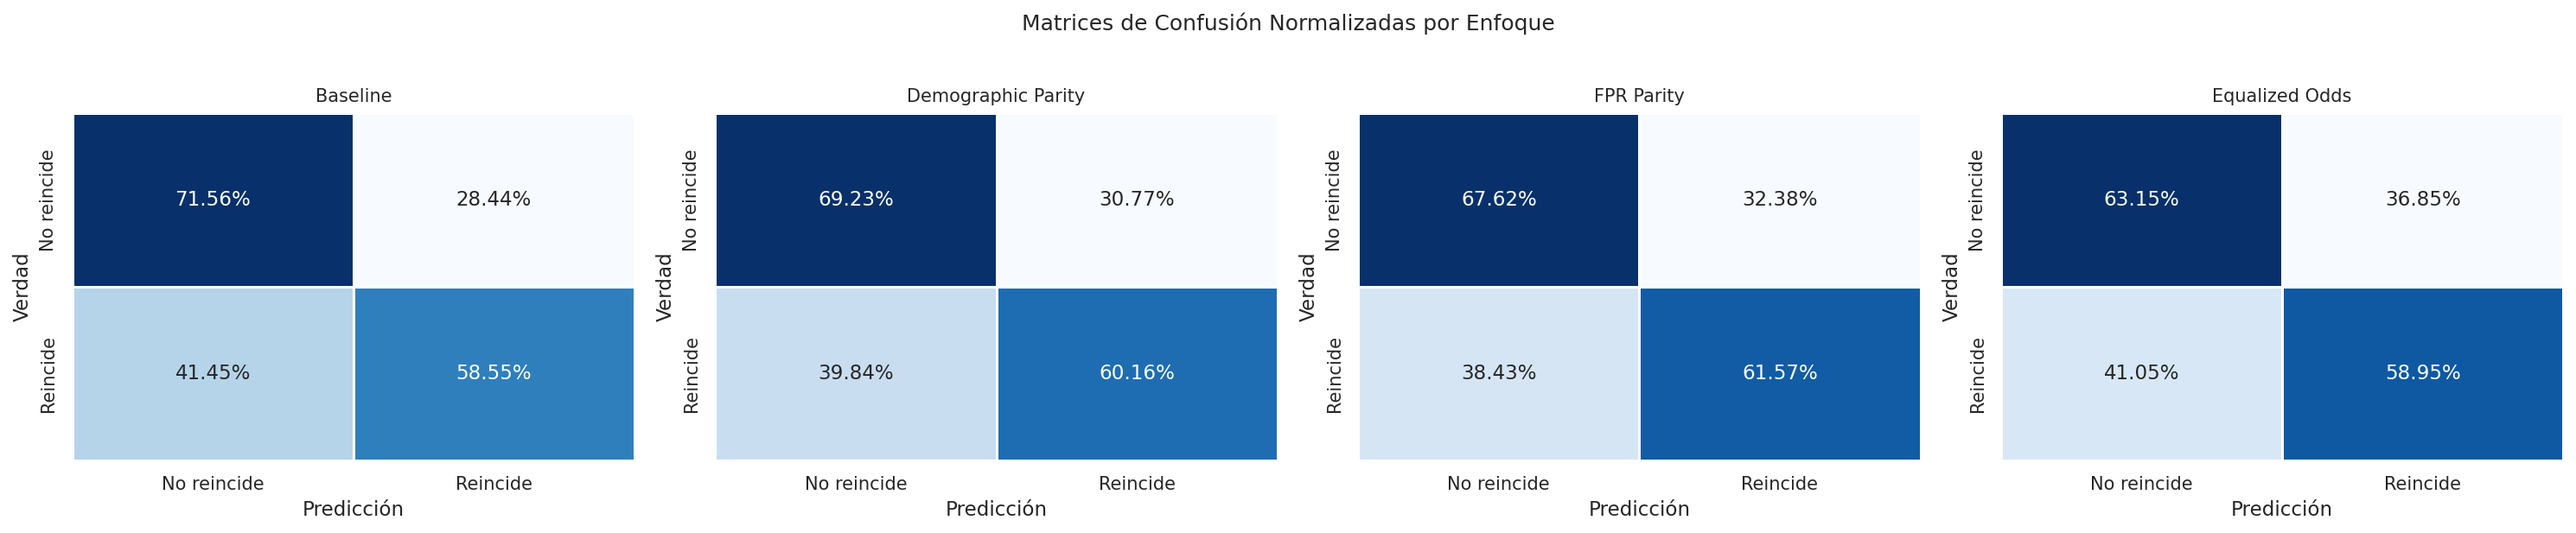
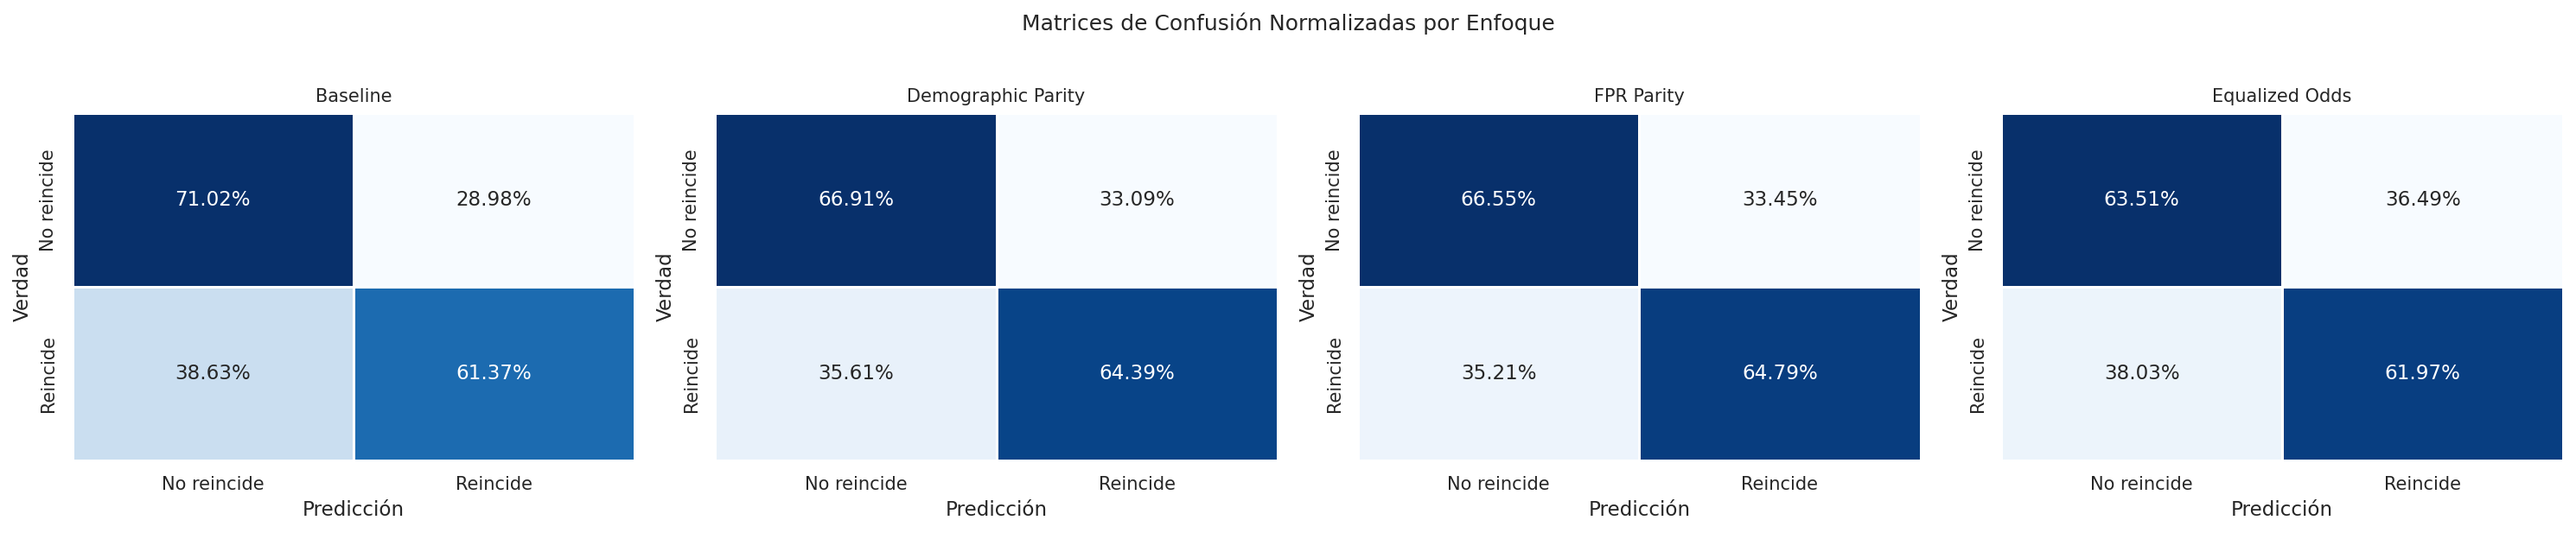
(fix): report & X data

diff --git a/reports/report.tex b/reports/report.tex
@@ -156,7 +156,7 @@ El \textit{dataset} \textit{COMPAS Recidivism — Two-Year} fue recopilado y pub
 \midrule
 Fuente / enlace           & ProPublica (GitHub: \texttt{propublica/compas-analysis}) \\
 Número de instancias      & $\approx 6\,000$ (tras filtrado y selección de razas) \\
-Número de \textit{features} (modelado) & 9 (4 numéricas, 5 categóricas)\\
+Número de \textit{features} (modelado) & 8 (5 numéricas, 3 categóricas)\\
 Variable objetivo         & \texttt{two\_year\_recid} (binaria) \\
 Atributo sensible         & \texttt{race} $\in\{$African-American, Caucasian$\}$ \\
 Distribución de clases    & $\approx 55\,\%$ no reincide $/\;45\,\%$ reincide \\
@@ -172,7 +172,7 @@ El EDA persigue tres objetivos: \emph{(i)}~verificar el desbalanceo de clases, \
 
 \begin{figure}[H]
 \centering
-\includegraphics[width=0.85\textwidth]{group_metrics_heatmap}
+\includegraphics[width=0.85\textwidth]{./figures/group_metrics_heatmap}
 \caption{Métricas por grupo racial (\textit{accuracy}, precisión, \textit{recall}, F1, FPR, FNR) para el modelo \textit{baseline} y las tres intervenciones de equidad evaluadas. La fila del \textit{baseline} evidencia la disparidad de FPR (mayor en African-American) y de FNR (mayor en Caucasian) consistente con el resultado de ProPublica.}
 \label{fig:eda}
 \end{figure}
@@ -197,7 +197,7 @@ A partir del análisis del \textit{dataset} y del contexto de uso del sistema, s
 
 Se aplican los filtros canónicos de ProPublica~\cite{propublica_compas_2016}: se descartan los registros con $|\,$\texttt{days\_b\_screening\_arrest}$\,|>30$, los marcados con \texttt{is\_recid}~$=-1$, los cargos de orden judicial (\texttt{c\_charge\_degree}~$=$~`O') y las puntuaciones inválidas. Posteriormente se restringe el análisis a los acusados de raza afroamericana y caucásica para reproducir el contraste binario del estudio original.
 
-Tras el filtrado se construye el conjunto de \textit{features} de modelado (variables numéricas: \texttt{age}, \texttt{priors\_count}, \texttt{juv\_fel\_count}, \texttt{juv\_misd\_count}, \texttt{juv\_other\_count}; variables categóricas: \texttt{sex}, \texttt{age\_cat}, \texttt{c\_charge\_degree}, \texttt{score\_text}). Se excluye \texttt{c\_charge\_desc} (alta cardinalidad sin agrupación semántica) y \texttt{decile\_score} (es la propia salida del sistema COMPAS, no una \textit{feature} predictiva genuina). La división \emph{estratificada} \textit{train/test} se realiza con \texttt{test\_size}$=0{,}2$ y \texttt{random\_state}$=80$, manteniendo la prevalencia del objetivo en ambos conjuntos. Críticamente, el \texttt{ColumnTransformer} (imputación por mediana + \texttt{StandardScaler} para numéricas; imputación por moda + \texttt{OneHotEncoder} con \texttt{handle\_unknown=`ignore'} para categóricas) se ajusta \emph{exclusivamente} sobre el conjunto de entrenamiento, dentro de un \texttt{sklearn.Pipeline}, para garantizar la ausencia de \textit{data leakage}.
+Tras el filtrado se construye el conjunto de \textit{features} de modelado (variables numéricas: \texttt{age}, \texttt{priors\_count}, \texttt{juv\_fel\_count}, \texttt{juv\_misd\_count}, \texttt{juv\_other\_count}; variables categóricas: \texttt{sex}, \texttt{age\_cat}, \texttt{c\_charge\_degree}). Se excluye \texttt{c\_charge\_desc} (alta cardinalidad sin agrupación semántica) y \texttt{decile\_score} (es la propia salida del sistema COMPAS, no una \textit{feature} predictiva genuina). La división \emph{estratificada} \textit{train/test} se realiza con \texttt{test\_size}$=0{,}2$ y \texttt{random\_state}$=80$, manteniendo la prevalencia del objetivo en ambos conjuntos. Críticamente, el \texttt{ColumnTransformer} (imputación por mediana + \texttt{StandardScaler} para numéricas; imputación por moda + \texttt{OneHotEncoder} con \texttt{handle\_unknown=`ignore'} para categóricas) se ajusta \emph{exclusivamente} sobre el conjunto de entrenamiento, dentro de un \texttt{sklearn.Pipeline}, para garantizar la ausencia de \textit{data leakage}.
 
 \subsection{Modelo \textit{baseline}}
 
@@ -290,28 +290,28 @@ La Figura~\ref{fig:fairness_comparison} resume la comparación de \textit{accura
 
 \begin{figure}[H]
 \centering
-\includegraphics[width=0.85\textwidth]{fairness_comparison}
+\includegraphics[width=0.85\textwidth]{./figures/fairness_comparison}
 \caption{Comparativa de \textit{accuracy} y métricas de equidad (\textit{DP diff.}, \textit{FPR diff.}, \textit{EO diff.}) entre el \textit{baseline} y las tres intervenciones.}
 \label{fig:fairness_comparison}
 \end{figure}
 
 \begin{figure}[H]
 \centering
-\includegraphics[width=0.75\textwidth]{tradeoff_scatter}
+\includegraphics[width=0.75\textwidth]{./figures/tradeoff_scatter}
 \caption{\textit{Accuracy-fairness trade-off}: cada punto representa un modelo en el plano (\,FPR diff., \textit{accuracy}\,). El punto ideal está arriba a la izquierda.}
 \label{fig:tradeoff}
 \end{figure}
 
 \begin{figure}[H]
 \centering
-\includegraphics[width=0.85\textwidth]{shap_summary}
+\includegraphics[width=0.85\textwidth]{./figures/shap_summary}
 \caption{Valores SHAP del modelo \textit{baseline}. Las variables \texttt{priors\_count} y \texttt{age} dominan la predicción; al estar correlacionadas con la raza por razones estructurales, actúan como \textit{proxies} y son la fuente principal del sesgo observado.}
 \label{fig:shap}
 \end{figure}
 
 \begin{figure}[H]
 \centering
-\includegraphics[width=0.85\textwidth]{confusion_matrices}
+\includegraphics[width=0.85\textwidth]{./figures/confusion_matrices}
 \caption{Matrices de confusión normalizadas para las cuatro configuraciones. Se observa el reequilibrio de FP/FN inducido por cada criterio de equidad.}
 \label{fig:cm}
 \end{figure}
@@ -321,7 +321,7 @@ La Figura~\ref{fig:robustness} muestra la caída de \textit{accuracy} del \texti
 
 \begin{figure}[H]
 \centering
-\includegraphics[width=0.7\textwidth]{robustness_fgm}
+\includegraphics[width=0.7\textwidth]{./figures/robustness_fgm}
 \caption{Comparativa de \textit{accuracy} limpia frente a \textit{accuracy} adversaria (FGM, $\varepsilon=0{,}1$) sobre el conjunto de test.}
 \label{fig:robustness}
 \end{figure}

diff --git a/src/data/make_dataset.py b/src/data/make_dataset.py
@@ -34,9 +34,12 @@ def clean_compas_data(input_path: str, output_path: str) -> None:
     cols_to_keep = [
         'sex', 'age', 'age_cat', 'race', 
         'juv_fel_count', 'juv_misd_count', 'juv_other_count', 'priors_count',
-        'c_charge_degree', 'c_charge_desc',
-        'score_text', 'decile_score', # Target of bias
+        'c_charge_degree', 
         'two_year_recid' # Target feature to predict
+        
+        # 'c_charge_desc',              # Too many categories
+        # 'score_text', 'decile_score', # Target of bias
+        
     ]
     
     # Check if all cols exist
